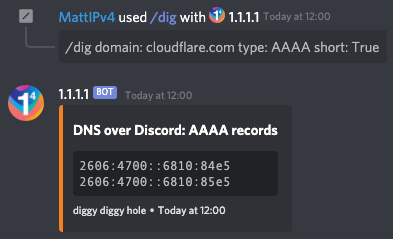
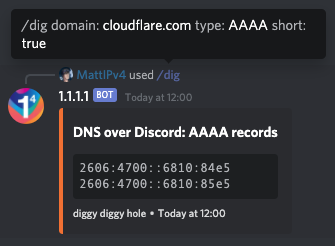
Assorted slash commands updates (#29)
* Replace ACK_WITH_SOURCE with DEFERRED_CHANNEL_MESSAGE_WITH_SOURCE

* Cleanup in plain-text commands

* Update request handler

* Tweak privacy text to reflect worker-only operation

* Use deferred response for whois

* Log any errors in deferred logic

* Updated Discord screenshots

* More cleanup and consistency

diff --git a/src/commands/whois.js b/src/commands/whois.js
@@ -1,5 +1,7 @@
-const { ApplicationCommandOptionType, InteractionResponseType } = require('slash-commands');
+const { ApplicationCommandOptionType } = require('slash-commands');
+const { InteractionResponseType } = require('discord-interactions');
 const whois = require('web-whois');
+const { editDeferred, } = require('../utils/follow-up');
 const { createEmbed } = require('../utils/embed');
 const { presentTable } = require('../utils/table');
 
@@ -14,53 +16,63 @@ module.exports = {
             required: true,
         },
     ],
-    execute: async ({ interaction, response }) => {
-        // Get the raw values from Discord
-        const query = ((interaction.data.options.find(opt => opt.name === 'query') || {}).value || '').trim()
-            .replace(/^as([0-9]+)$/i, '$1') // Remove 'AS' from start of an ASN
-            .replace(/^[a-z][a-z0-9+.-]+:\/\/(.+)$/i, '$1') // Remove scheme from a URI
-            .replace(/^([0-9]{1,3}(?:\.[0-9]{1,3}){3}):[0-9]+$/, '$1'); // Remove port from an IPv4 address
+    execute: async ({ interaction, response, wait, sentry }) => {
+        // Do the processing after acknowledging the Discord command
+        wait((async () => {
+            // Get the raw values from Discord
+            const query = ((interaction.data.options.find(opt => opt.name === 'query') || {}).value || '').trim()
+                .replace(/^as([0-9]+)$/i, '$1') // Remove 'AS' from start of an ASN
+                .replace(/^[a-z][a-z0-9+.-]+:\/\/(.+)$/i, '$1') // Remove scheme from a URI
+                .replace(/^([0-9]{1,3}(?:\.[0-9]{1,3}){3}):[0-9]+$/, '$1'); // Remove port from an IPv4 address
 
-        // TODO: Try to validate as domain/IPv4/IPv6/ASN before running lookup
+            // TODO: Try to validate as domain/IPv4/IPv6/ASN before running lookup
 
-        // Do the rdap/whois lookup
-        const data = await whois(query, true);
+            // Do the rdap/whois lookup
+            const data = await whois(query, true);
 
-        // If no result, send back simple message
-        if (!data)
-            return response({
-                type: InteractionResponseType.CHANNEL_MESSAGE_WITH_SOURCE,
-                data: {
-                    embeds: [createEmbed('WHOIS',
-                        'The query does not appear to be a valid domain name, IP address or ASN, or no results could be found')],
-                },
-            });
+            // If no result, send back simple message
+            if (!data)
+                return response({
+                    type: InteractionResponseType.CHANNEL_MESSAGE_WITH_SOURCE,
+                    data: {
+                        embeds: [
+                            createEmbed(
+                                'WHOIS',
+                                'The query does not appear to be a valid domain name, IP address or ASN, or no results could be found',
+                            ),
+                        ],
+                    },
+                });
 
-        // Generate the fields
-        const fields = Object.entries(data).filter(entry => entry[1] !== undefined).map(([ name, value ]) => ([
-            ['asn', 'cidr'].includes(name)
-                ? name.toUpperCase()
-                : name[0].toUpperCase() + name.slice(1).toLowerCase(),
-            value instanceof Date
-                ? value.toUTCString()
-                : value.toString(),
-        ]));
+            // Generate the fields
+            const fields = Object.entries(data).filter(entry => entry[1] !== undefined).map(([ name, value ]) => ([
+                ['asn', 'cidr'].includes(name)
+                    ? name.toUpperCase()
+                    : name[0].toUpperCase() + name.slice(1).toLowerCase(),
+                value instanceof Date
+                    ? value.toUTCString()
+                    : value.toString(),
+            ]));
 
-        // Generate the table
-        const table = presentTable([
-            ['', ''],
-            ...fields,
-        ]).split('\n').slice(1).join('\n');
+            // Generate the table
+            const table = presentTable([
+                ['', ''],
+                ...fields,
+            ]).split('\n').slice(1).join('\n');
 
-        // Title for the result (query, but with 'AS' added to any ASN)
-        const title = query.replace(/^([0-9]+)$/, 'AS$1');
+            // Title for the result (query, but with 'AS' added to any ASN)
+            const title = query.replace(/^([0-9]+)$/, 'AS$1');
 
-        // Send the embed
-        return response({
-            type: InteractionResponseType.CHANNEL_MESSAGE_WITH_SOURCE,
-            data: {
+            // Edit our deferred message with the results
+            await editDeferred(interaction, {
                 embeds: [createEmbed('WHOIS', `\`\`\`\n${title}\n${table}\n\`\`\``)],
-            },
-        });
+            });
+        })().catch(err => {
+            // Log & re-throw any errors
+            console.error(err);
+            sentry.captureException(err);
+            throw err;
+        }));
+        return response({ type: InteractionResponseType.DEFERRED_CHANNEL_MESSAGE_WITH_SOURCE });
     },
 };

diff --git a/src/index.js b/src/index.js
@@ -1,4 +1,4 @@
-const { InteractionType, InteractionResponseType, verifyKey } = require('discord-interactions');
+const { InteractionType, InteractionResponseType, InteractionResponseFlags, verifyKey } = require('discord-interactions');
 const WorkersSentry = require('workers-sentry/worker');
 const Privacy = require('./utils/privacy');
 const commands = require('./build/data/commands.json');
@@ -22,15 +22,7 @@ const redirectResponse = url => new Response(null, {
 const handleInteractionVerification = (request, bodyBuffer) => {
     const timestamp = request.headers.get('X-Signature-Timestamp') || '';
     const signature = request.headers.get('X-Signature-Ed25519') || '';
-
-    let res = false;
-    try {
-        res = verifyKey(bodyBuffer, signature, timestamp, process.env.CLIENT_PUBLIC_KEY);
-    } catch (_) {
-        // Do nothing, res is false
-    }
-
-    return res;
+    return verifyKey(bodyBuffer, signature, timestamp, process.env.CLIENT_PUBLIC_KEY);
 };
 
 // Process a Discord interaction POST request
@@ -57,7 +49,7 @@ const handleInteraction = async ({ request, wait, sentry }) => {
         });
 
     // Otherwise, we only care for commands
-    if (body.type !== InteractionType.COMMAND)
+    if (body.type !== InteractionType.APPLICATION_COMMAND)
         return new Response(null, { status: 501 });
 
     // Locate the command data
@@ -70,7 +62,7 @@ const handleInteraction = async ({ request, wait, sentry }) => {
         const command = require(`./commands/${commandData.file}`);
 
         // Execute
-        return await command.execute({ interaction: body, response: jsonResponse, wait });
+        return await command.execute({ interaction: body, response: jsonResponse, wait, sentry });
     } catch (err) {
         // Catch & log any errors
         console.log(body);
@@ -79,10 +71,10 @@ const handleInteraction = async ({ request, wait, sentry }) => {
 
         // Send an ephemeral message to the user
         return jsonResponse({
-            type: InteractionResponseType.CHANNEL_MESSAGE,
+            type: InteractionResponseType.CHANNEL_MESSAGE_WITH_SOURCE,
             data: {
                 content: 'An unexpected error occurred when executing the command.',
-                flags: 1 << 6,
+                flags: InteractionResponseFlags.EPHEMERAL,
             },
         });
     }

diff --git a/src/utils/dig.js b/src/utils/dig.js
@@ -1,8 +1,8 @@
-const { InteractionResponseType } = require('slash-commands');
+const { InteractionResponseType, InteractionResponseFlags } = require('discord-interactions');
 const isValidDomain = require('is-valid-domain');
 const { performLookup } = require('./dns');
 const { presentTable } = require('./table');
-const { sendFollowup } = require('./follow-up');
+const { editDeferred, sendFollowup } = require('./follow-up');
 const { createEmbed } = require('./embed');
 
 module.exports.validateDomain = (input, response) => {
@@ -19,16 +19,16 @@ module.exports.validateDomain = (input, response) => {
     return {
         domain: cleaned,
         error: valid ? null : response({
-            type: InteractionResponseType.CHANNEL_MESSAGE,
+            type: InteractionResponseType.CHANNEL_MESSAGE_WITH_SOURCE,
             data: {
                 content: 'A domain name could not be parsed from the given input.',
-                flags: 1 << 6,
+                flags: InteractionResponseFlags.EPHEMERAL,
             },
         }),
     };
 };
 
-module.exports.handleDig = async ({ interaction, response, wait, domain, types, short }) => {
+module.exports.handleDig = async ({ interaction, response, wait, domain, types, short, sentry }) => {
     // Make the DNS queries
     const results = [];
     for (const type of types)
@@ -88,12 +88,22 @@ module.exports.handleDig = async ({ interaction, response, wait, domain, types, 
         // Give Discord time to process the ACK response
         await new Promise(resolve => setTimeout(resolve, 250));
 
-        // Send the embeds
+        // Edit our deferred message with the first 10 embeds
+        await editDeferred(interaction, {
+            embeds: embeds.splice(0, 10),
+        });
+
+        // Send the remaining embeds as follow-ups
         while (embeds.length) {
             await sendFollowup(interaction, {
                 embeds: embeds.splice(0, 10),
             });
         }
-    })());
-    return response({ type: InteractionResponseType.ACK_WITH_SOURCE });
+    })().catch(err => {
+        // Log & re-throw any errors
+        console.error(err);
+        sentry.captureException(err);
+        throw err;
+    }));
+    return response({ type: InteractionResponseType.DEFERRED_CHANNEL_MESSAGE_WITH_SOURCE });
 };

diff --git a/src/commands/dig.js b/src/commands/dig.js
@@ -1,4 +1,4 @@
-const { ApplicationCommandOptionType, } = require('slash-commands');
+const { ApplicationCommandOptionType } = require('slash-commands');
 const { VALID_TYPES } = require('../utils/dns');
 const { validateDomain, handleDig } = require('../utils/dig');
 
@@ -32,7 +32,7 @@ module.exports = {
             required: false,
         },
     ],
-    execute: async ({ interaction, response, wait }) => {
+    execute: async ({ interaction, response, wait, sentry }) => {
         // Get the raw values from Discord
         const rawDomain = ((interaction.data.options.find(opt => opt.name === 'domain') || {}).value || '').trim();
         const rawType = ((interaction.data.options.find(opt => opt.name === 'type') || {}).value || '').trim();
@@ -46,6 +46,6 @@ module.exports = {
         const type = VALID_TYPES.includes(rawType) ? rawType : 'A';
 
         // Go!
-        return await handleDig({ interaction, response, wait, domain, types: [type], short: rawShort });
+        return await handleDig({ interaction, response, wait, domain, types: [type], short: rawShort, sentry });
     },
 };

diff --git a/src/commands/github.js b/src/commands/github.js
@@ -1,16 +1,18 @@
-const { InteractionResponseType } = require('slash-commands');
+const { InteractionResponseType } = require('discord-interactions');
 const { createEmbed } = require('../utils/embed');
 
 module.exports = {
     name: 'github',
     description: 'Get a link to the open-source GitHub repository for DNS over Discord',
-    execute: async ({ response }) => {
-        return response({
-            type: InteractionResponseType.CHANNEL_MESSAGE_WITH_SOURCE,
-            data: {
-                embeds: [createEmbed('GitHub',
-                    'View the DNS over Discord source code on GitHub at https://dns-over-discord.v4.wtf/github')],
-            },
-        });
-    },
+    execute: async ({ response }) => response({
+        type: InteractionResponseType.CHANNEL_MESSAGE_WITH_SOURCE,
+        data: {
+            embeds: [
+                createEmbed(
+                    'GitHub',
+                    'View the DNS over Discord source code on GitHub at https://dns-over-discord.v4.wtf/github',
+                ),
+            ],
+        },
+    }),
 };

diff --git a/src/commands/invite.js b/src/commands/invite.js
@@ -1,16 +1,18 @@
-const { InteractionResponseType } = require('slash-commands');
+const { InteractionResponseType } = require('discord-interactions');
 const { createEmbed } = require('../utils/embed');
 
 module.exports = {
     name: 'invite',
     description: 'Get a link to add DNS over Discord to your server',
-    execute: async ({ response }) => {
-        return response({
-            type: InteractionResponseType.CHANNEL_MESSAGE_WITH_SOURCE,
-            data: {
-                embeds: [createEmbed('Invite',
-                    'Invite DNS over Discord to your server with https://dns-over-discord.v4.wtf/invite')],
-            },
-        });
-    },
+    execute: async ({ response }) => response({
+        type: InteractionResponseType.CHANNEL_MESSAGE_WITH_SOURCE,
+        data: {
+            embeds: [
+                createEmbed(
+                    'Invite',
+                    'Invite DNS over Discord to your server with https://dns-over-discord.v4.wtf/invite',
+                ),
+            ],
+        },
+    }),
 };

diff --git a/src/commands/privacy.js b/src/commands/privacy.js
@@ -1,17 +1,14 @@
-const { InteractionResponseType } = require('slash-commands');
+const { InteractionResponseType } = require('discord-interactions');
 const { createEmbed } = require('../utils/embed');
 const Privacy = require('../utils/privacy');
 
 module.exports = {
     name: 'privacy',
     description: 'View the privacy policy for DNS over Discord',
-    execute: async ({ response }) => {
-        // Respond
-        return response({
-            type: InteractionResponseType.CHANNEL_MESSAGE_WITH_SOURCE,
-            data: {
-                embeds: [createEmbed('Privacy Policy', Privacy)],
-            },
-        });
-    },
+    execute: async ({ response }) => response({
+        type: InteractionResponseType.CHANNEL_MESSAGE_WITH_SOURCE,
+        data: {
+            embeds: [createEmbed('Privacy Policy', Privacy)],
+        },
+    }),
 };

diff --git a/src/commands/multi-dig.js b/src/commands/multi-dig.js
@@ -27,7 +27,7 @@ module.exports = {
             required: false,
         },
     ],
-    execute: async ({ interaction, response, wait }) => {
+    execute: async ({ interaction, response, wait, sentry }) => {
         // Get the raw values from Discord
         const rawDomain = ((interaction.data.options.find(opt => opt.name === 'domain') || {}).value || '').trim();
         const rawTypes = ((interaction.data.options.find(opt => opt.name === 'types') || {}).value || '').trim();
@@ -44,6 +44,6 @@ module.exports = {
         if (!types.length) types.push('A');
 
         // Go!
-        return await handleDig({ interaction, response, wait, domain, types, short: rawShort });
+        return await handleDig({ interaction, response, wait, domain, types, short: rawShort, sentry });
     },
 };

diff --git a/src/utils/privacy.js b/src/utils/privacy.js
@@ -1,7 +1,7 @@
 module.exports = `
 By using DNS over Discord, whether you have read these notices or not, you agree to the following data being used as needed for DNS over Discord to operate and provide its functionality.
 
-DNS over Discord stores no data in a database and has a very limited in-memory cache that is wiped whenever the bot restarts.
+DNS over Discord stores no data in a database and has no persistent in-memory cache as it runs as a stateless Cloudflare Worker.
 DNS over Discord responds solely to messages and requires no stored user data for this.
 
 For DNS lookup commands, the domain name and record types provided will be sent to Cloudflare's 1.1.1.1 DNS over HTTPS JSON API to provide the functionality for the bot.

diff --git a/src/utils/follow-up.js b/src/utils/follow-up.js
@@ -9,3 +9,15 @@ module.exports.sendFollowup = async (interaction, data) => {
     );
     return await res.json();
 };
+
+module.exports.editDeferred = async (interaction, data) => {
+    const res = await fetch(
+        `https://discord.com/api/v8/webhooks/${process.env.CLIENT_ID}/${interaction.token}/messages/@original`,
+        {
+            method: 'PATCH',
+            body: JSON.stringify(data),
+            headers: { 'Content-Type': 'application/json' },
+        },
+    );
+    return await res.json();
+};

diff --git a/src/commands/help.js b/src/commands/help.js
@@ -1,4 +1,4 @@
-const { InteractionResponseType } = require('slash-commands');
+const { InteractionResponseType } = require('discord-interactions');
 const { createEmbed } = require('../utils/embed');
 const { cmdExplainer } = require('../utils/commands');
 const commands = require('../build/data/commands.json');
